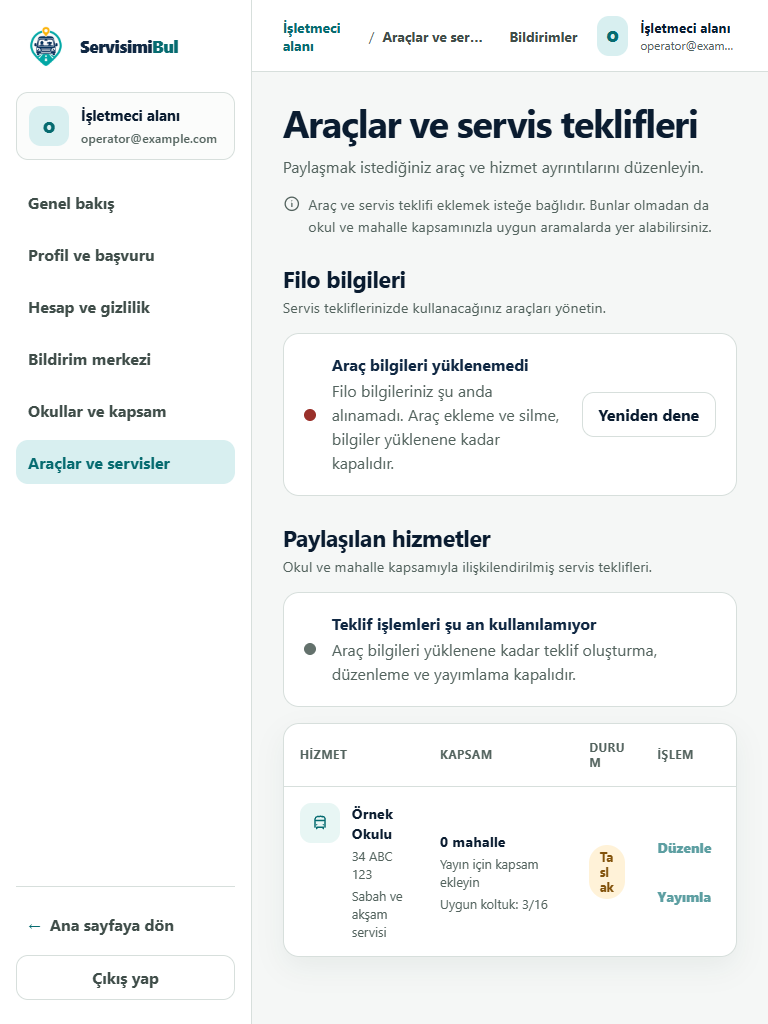
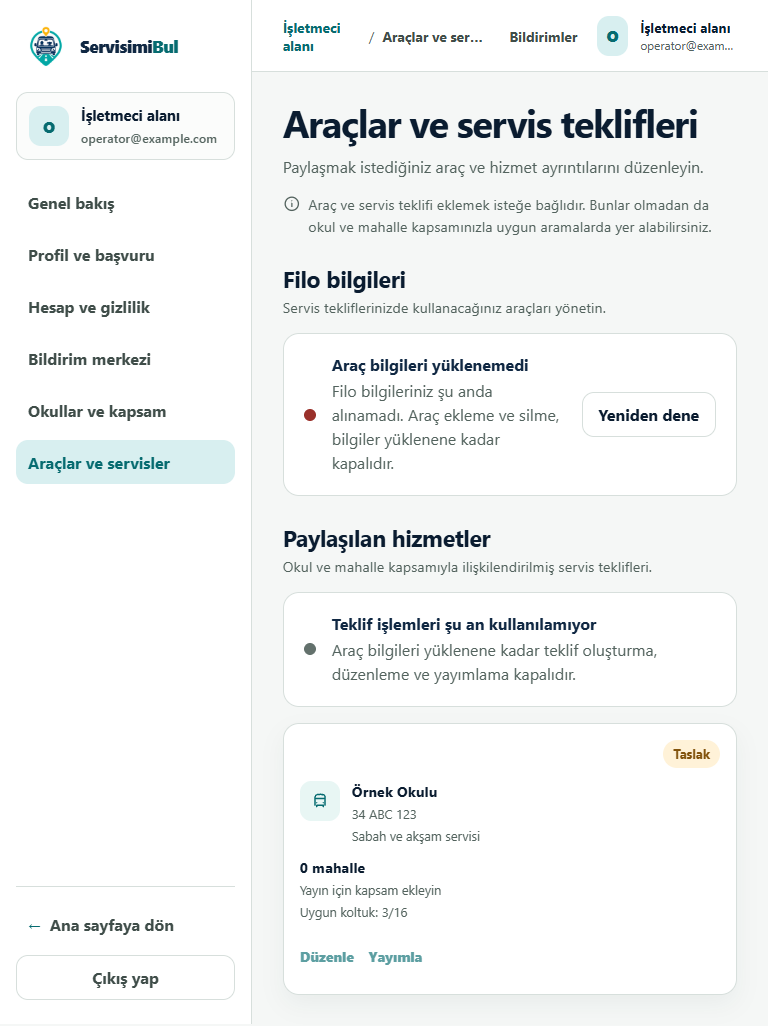
fix(operator): stack offerings table below 64rem to stop cramped wrapping (#328)
At tablet widths beside the sidebar the four-column table squeezed the
status heading and badge into mid-word wraps. Reuse the existing stacked
card layout up to 64rem and keep headings and status on one line.

diff --git a/servisimibul-frontend/src/features/operator/operator-workspace.css b/servisimibul-frontend/src/features/operator/operator-workspace.css
@@ -1539,6 +1539,7 @@
 }
 
 .operator-offerings-table th {
+  white-space: nowrap;
   color: var(--color-muted);
   font-size: 0.72rem;
   letter-spacing: 0.06em;
@@ -1610,6 +1611,10 @@
   fill: none;
 }
 
+.operator-offerings-table td[data-label='Durum'] {
+  white-space: nowrap;
+}
+
 .operator-offering-actions {
   display: flex;
   flex-wrap: wrap;
@@ -1662,50 +1667,8 @@
   .operator-vehicle-grid {
     grid-template-columns: repeat(2, minmax(0, 1fr));
   }
-}
 
-@media (max-width: 44rem) {
-  .operator-offerings-page {
-    gap: 1.75rem;
-  }
-
-  .operator-offerings-header h1 {
-    font-size: clamp(2.15rem, 11vw, 2.8rem);
-  }
-
-  .operator-offerings-section-heading {
-    align-items: stretch;
-    flex-direction: column;
-  }
-
-  .operator-add-button {
-    width: 100%;
-  }
-
-  .operator-vehicle-grid {
-    grid-template-columns: repeat(2, minmax(0, 1fr));
-    gap: 0.65rem;
-  }
-
-  .operator-vehicle-visual {
-    min-height: 4.8rem;
-  }
-
-  .operator-vehicle-visual svg {
-    width: 3.25rem;
-    height: 3.25rem;
-    padding: 0.7rem;
-  }
-
-  .operator-vehicle-body {
-    gap: 0.6rem;
-    padding: 0.85rem;
-  }
-
-  .operator-vehicle-status-row {
-    gap: 0.35rem;
-  }
-
+  /* Below 64rem the four-column table is too narrow beside the sidebar. */
   .operator-offerings-table-wrap {
     overflow: visible;
     border: 0;
@@ -1762,6 +1725,49 @@
 
   .operator-offerings-table td::before {
     display: none;
+  }
+}
+
+@media (max-width: 44rem) {
+  .operator-offerings-page {
+    gap: 1.75rem;
+  }
+
+  .operator-offerings-header h1 {
+    font-size: clamp(2.15rem, 11vw, 2.8rem);
+  }
+
+  .operator-offerings-section-heading {
+    align-items: stretch;
+    flex-direction: column;
+  }
+
+  .operator-add-button {
+    width: 100%;
+  }
+
+  .operator-vehicle-grid {
+    grid-template-columns: repeat(2, minmax(0, 1fr));
+    gap: 0.65rem;
+  }
+
+  .operator-vehicle-visual {
+    min-height: 4.8rem;
+  }
+
+  .operator-vehicle-visual svg {
+    width: 3.25rem;
+    height: 3.25rem;
+    padding: 0.7rem;
+  }
+
+  .operator-vehicle-body {
+    gap: 0.6rem;
+    padding: 0.85rem;
+  }
+
+  .operator-vehicle-status-row {
+    gap: 0.35rem;
   }
 
   .operator-dialog-content {

diff --git a/servisimibul-frontend/e2e/ui-18-operator-offerings-copy.spec.ts b/servisimibul-frontend/e2e/ui-18-operator-offerings-copy.spec.ts
@@ -37,6 +37,7 @@ for (const viewport of viewports) {
     await expect(
       page.getByRole('region', { name: 'Paylaşılan hizmetler' }),
     ).toBeVisible()
+    await expectTableLabelsOnOneLine(page)
     await expectNoOverflow(page)
     await expectAxeClean(page)
   })
@@ -97,6 +98,7 @@ test('COPY328 note stays put through loading, partial failure and retry', async 
     'Araç bilgileri yüklenemedi',
   )
   await shoot(page, 'partial-failure-768')
+  await expectTableLabelsOnOneLine(page)
   await expectSingleCalmNote(page)
   await expect(page.getByRole('alert')).toHaveCount(1)
 
@@ -168,6 +170,33 @@ async function login(page: Page) {
   await page.getByLabel('Şifre').fill('Password123!')
   await page.getByRole('button', { name: 'Giriş yap' }).click()
   await expect(page.getByRole('heading', { name: 'Genel bakış' })).toBeVisible()
+}
+
+// Status heading, status badge and action labels must never wrap mid-word.
+async function expectTableLabelsOnOneLine(page: Page) {
+  const table = page.locator('.operator-offerings-table')
+  const labels = [
+    table.getByText('Taslak', { exact: true }),
+    table.getByRole('button', { name: 'Düzenle', exact: true }),
+    table.getByRole('button', { name: 'Yayımla', exact: true }),
+  ]
+  const statusHeading = table.getByRole('columnheader', { name: 'Durum' })
+  // The header row is visually hidden (1px clip) in the stacked card layout.
+  const headingBox = await statusHeading.boundingBox()
+  if (headingBox && headingBox.width > 1) labels.push(statusHeading)
+  for (const label of labels) {
+    const lines = await label.evaluate((element) => {
+      const range = document.createRange()
+      range.selectNodeContents(element)
+      const tops = new Set(
+        [...range.getClientRects()]
+          .filter((rect) => rect.width > 0)
+          .map((rect) => Math.round(rect.top)),
+      )
+      return tops.size
+    })
+    expect(lines).toBe(1)
+  }
 }
 
 async function expectNoOverflow(page: Page) {
